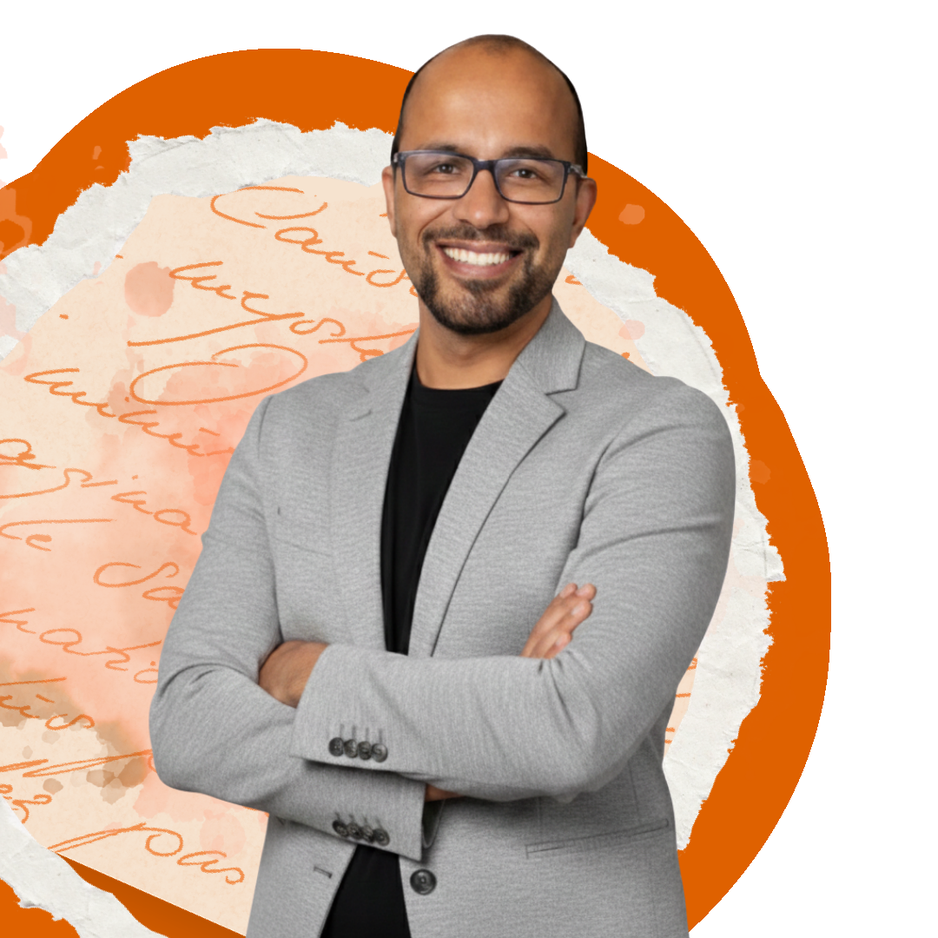
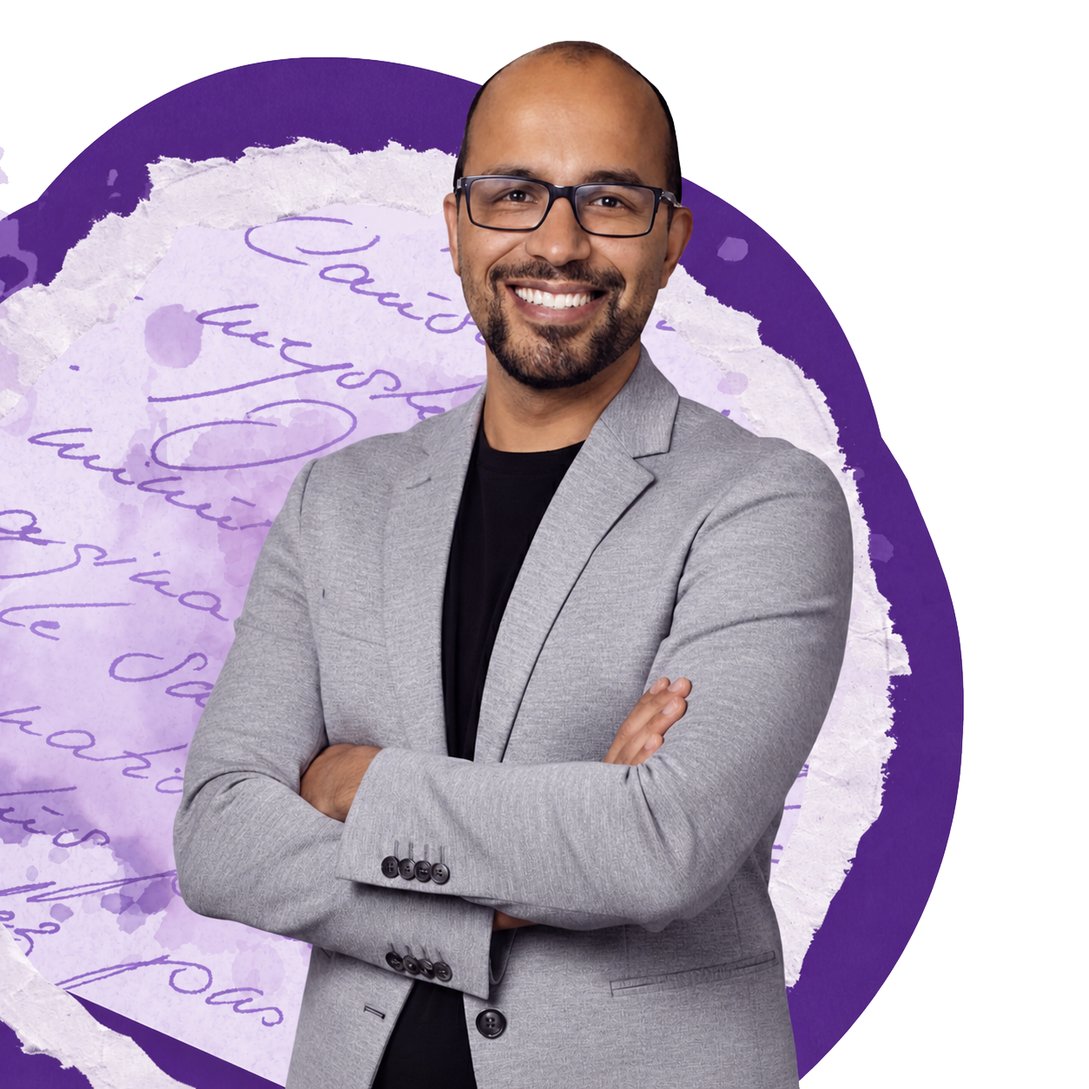
feat(pos): atualiza paginas de live e agradecimento de registro e documentacao

diff --git a/Pos/registro-e-documentacao/registro-e-documentacao-live/registro-e-documentacao-live.html b/Pos/registro-e-documentacao/registro-e-documentacao-live/registro-e-documentacao-live.html
@@ -22,27 +22,27 @@
           <div class="hero-copy">
             <p class="kicker">LIVE EDUCAÇÃO · 26/08 ÀS 19H30</p>
             <h1>Registrei. <em>E agora?</em><br>Como o registro transforma a prática pedagógica</h1>
-            <p class="hero-lead">Ressignifique o registro pedagógico para orientar escolhas, construir percursos e ampliar possibilidades de aprendizagem.</p>
+            <p class="hero-lead">Ressignifique o <strong>registro pedagógico</strong> para orientar escolhas, construir percursos e <strong>ampliar possibilidades de aprendizagem</strong>, com foco em reconhecer <strong>o cotidiano documentado como ponto de partida</strong> para a tomada de decisões.</p>
             <div class="event-meta" aria-label="Informações da live"><span><b>26/08</b><small>quarta-feira</small></span><span><b>19h30</b><small>horário de Brasília</small></span><span><b>Ao vivo</b><small>pelo YouTube</small></span><span><b>Certificado</b><small>de participação</small></span></div>
-            <a class="button button-primary" href="#inscricao">Quero participar da live <span aria-hidden="true">↓</span></a>
+            <p class="hero-support">Com o Prof. Dr. Cristiano Alcântara · Pelo YouTube · Com certificado</p><a class="button button-primary" href="#inscricao">Quero participar da live <span aria-hidden="true">↓</span></a>
           </div>
-          <div class="hero-art"><span class="hero-stamp">Registro<br>&amp; reflexão</span><img src="assets/quadrado-30.png" alt="Professor Cristiano Alcântara sorrindo, com os braços cruzados."></div>
+          <div class="hero-art"><span class="hero-stamp">Registro<br>&amp; reflexão</span><img src="assets/quadrado-30.webp" alt="Professor Cristiano Alcântara sorrindo, com os braços cruzados."></div>
         </div>
       </section>
 
       <section class="countdown-band" aria-label="Informações da live"><div class="container countdown-grid"><div><strong>26</strong><span>agosto</span></div><div><strong>19h30</strong><span>ao vivo</span></div><div><strong>100%</strong><span>gratuita</span></div><div><strong>1</strong><span>certificado</span></div></div></section>
 
-      <section class="signup section-paper" id="inscricao"><div class="container signup-grid"><div class="signup-art"><img src="assets/formulario-35.png" alt="Profissionais da educação reunidos para estudar e planejar."><p>Uma conversa para transformar observação em decisão pedagógica.</p></div><div class="form-card"><p class="kicker">Inscrição gratuita</p><h2>Garanta seu lugar na conversa.</h2><p class="form-intro">Preencha seus dados para receber as informações da live e do certificado.</p><form id="signup-form" novalidate><div class="form-field"><label for="nome">Nome completo <span aria-hidden="true">*</span></label><input id="nome" name="nome" type="text" autocomplete="name" required placeholder="Como podemos chamar você?"><small class="field-error" data-error-for="nome"></small></div><div class="form-field"><label for="email">E-mail <span aria-hidden="true">*</span></label><input id="email" name="email" type="email" autocomplete="email" required placeholder="voce@exemplo.com"><small class="field-error" data-error-for="email"></small></div><div class="form-field"><label for="telefone">Telefone <span aria-hidden="true">*</span></label><input id="telefone" name="telefone" type="tel" autocomplete="tel" required placeholder="(00) 00000-0000"><small class="field-error" data-error-for="telefone"></small></div><fieldset class="form-field"><legend>Você trabalha com educação infantil? <span aria-hidden="true">*</span></legend><label class="choice"><input type="radio" name="educacao-infantil" value="sim" required> <span>Sim</span></label><label class="choice"><input type="radio" name="educacao-infantil" value="nao"> <span>Não</span></label><small class="field-error" data-error-for="educacao-infantil"></small></fieldset><div class="form-field"><label for="objetivo">Qual é seu principal objetivo ao participar? <span aria-hidden="true">*</span></label><select id="objetivo" name="objetivo" required><option value="">Selecione uma opção</option><option>Atualizar meus conhecimentos na área</option><option>Entender mais sobre práticas, conceitos e teorias</option><option>Conhecer opções de cursos de especialização</option><option>Adquirir certificações</option></select><small class="field-error" data-error-for="objetivo"></small></div><label class="consent"><input id="consentimento" name="consentimento" type="checkbox" required><span>Eu concordo em receber comunicações. A Faculdade Phorte protege seus dados e os usa apenas para fins de marketing. Consulte a <a href="https://posphorte.com.br/politica-de-privacidade/" target="_blank" rel="noreferrer">política de privacidade</a>.</span></label><small class="field-error" data-error-for="consentimento"></small><button class="button button-submit" type="submit">Concluir minha inscrição <span aria-hidden="true">→</span></button><p class="form-status" id="form-status" role="status" aria-live="polite"></p></form></div></div></section>
+      <section class="signup section-paper" id="inscricao"><div class="container signup-grid"><div class="signup-art"><img src="assets/formulario-35.webp" alt="Profissionais da educação reunidos para estudar e planejar."><p>Uma conversa para transformar observação em decisão pedagógica.</p></div><div class="form-card"><p class="kicker">Inscrição gratuita</p><h2>Garanta seu lugar na conversa.</h2><p class="form-intro">Para participar, preencha o formulário e receba as informações da live e do certificado.</p><form id="signup-form" novalidate><div class="form-field"><label for="nome">Nome completo <span aria-hidden="true">*</span></label><input id="nome" name="nome" type="text" autocomplete="name" required placeholder="Como podemos chamar você?"><small class="field-error" data-error-for="nome"></small></div><div class="form-field"><label for="email">E-mail <span aria-hidden="true">*</span></label><input id="email" name="email" type="email" autocomplete="email" required placeholder="voce@exemplo.com"><small class="field-error" data-error-for="email"></small></div><div class="form-field"><label for="telefone">Telefone <span aria-hidden="true">*</span></label><input id="telefone" name="telefone" type="tel" autocomplete="tel" required placeholder="(00) 00000-0000"><small class="field-error" data-error-for="telefone"></small></div><fieldset class="form-field"><legend>Você trabalha com educação infantil? <span aria-hidden="true">*</span></legend><label class="choice"><input type="radio" name="educacao-infantil" value="sim" required> <span>Sim</span></label><label class="choice"><input type="radio" name="educacao-infantil" value="nao"> <span>Não</span></label><small class="field-error" data-error-for="educacao-infantil"></small></fieldset><div class="form-field"><label for="objetivo">Qual é seu principal objetivo ao participar da live? <span aria-hidden="true">*</span></label><select id="objetivo" name="objetivo" required><option value="">Selecione uma opção</option><option>Atualizar meus conhecimentos na área</option><option>Entender mais sobre práticas, conceitos e teorias da minha área de atuação</option><option>Conhecer opções de cursos de especialização</option><option>Adquirir certificações</option></select><small class="field-error" data-error-for="objetivo"></small></div><label class="consent"><input id="consentimento" name="consentimento" type="checkbox" required><span>Eu concordo em receber comunicações. A Faculdade Phorte protege seus dados e os usa apenas para fins de marketing. Consulte a <a href="https://posphorte.com.br/politica-de-privacidade/" target="_blank" rel="noreferrer">política de privacidade</a>.</span></label><small class="field-error" data-error-for="consentimento"></small><button class="button button-submit" type="submit">Conclua sua inscrição <span aria-hidden="true">→</span></button><p class="form-status" id="form-status" role="status" aria-live="polite"></p></form></div></div></section>
 
-      <section class="split-section section-white"><div class="container split-grid"><div class="split-copy"><p class="section-number">01 · Sobre a live</p><h2>O registro não termina quando a escrita acaba.</h2><p><strong>Quando o registro se torna objeto de reflexão, ele ajuda o pedagogo a orientar práticas alinhadas às necessidades reais da sala de aula.</strong></p><p>Ao revisitar suas observações, o professor identifica lacunas e caminhos de continuidade. Essa análise aproxima o planejamento do que os alunos vivem, expressam e aprendem.</p><p>Em uma transmissão ao vivo, você poderá fazer perguntas, compartilhar experiências e ampliar suas referências sobre documentação pedagógica.</p></div><figure class="shape-image"><img src="assets/quadrado-25.png" alt="Criança caminhando por uma área externa de exploração." loading="lazy"><figcaption>O cotidiano documentado é ponto de partida para novas decisões.</figcaption></figure></div></section>
+      <section class="split-section section-white"><div class="container split-grid"><div class="split-copy"><p class="section-number">01 · Sobre a live</p><h2>O registro não é o produto final da documentação pedagógica.</h2><p><strong>Quando o transforma em objeto de reflexão, o pedagogo encontra fundamentos para orientar práticas alinhadas às necessidades reais da sala de aula.</strong></p><p>Ao revisitar suas observações, <strong>o professor identifica lacunas e caminhos de continuidade</strong>. Essa análise torna o <strong>planejamento mais coerente</strong> e aproxima as decisões do que os alunos vivem, expressam e aprendem.</p><p>Entenda como seus registros podem sustentar mudanças reais na prática pedagógica em uma transmissão ao vivo com um coordenador que vivencia a documentação no cotidiano escolar. Aproveite o encontro para fazer perguntas, compartilhar experiências e ampliar suas referências.</p></div><figure class="shape-image"><img src="assets/quadrado-25.webp" alt="Criança caminhando por uma área externa de exploração." loading="lazy"><figcaption>O cotidiano documentado é ponto de partida para novas decisões.</figcaption></figure></div></section>
 
-      <section class="profile section-paper"><div class="container profile-grid"><figure class="profile-art"><img src="assets/vertical-03.png" alt="Professor Cristiano Alcântara em um retrato editorial." loading="lazy"></figure><div class="profile-copy"><p class="section-number">02 · Quem conduz</p><h2>Prof. Dr. <em>Cristiano Alcântara</em></h2><p><strong>Pós-Doutor em Psicologia da Educação, Doutor em Língua Portuguesa, Mestre em Ciência da Informação e Documentação, Bacharel em Letras e Pedagogo em Gestão Escolar.</strong></p><p>É coordenador pedagógico na Cidade de São Paulo e coordenador dos cursos de graduação em Pedagogia e das pós-graduações em Educação Infantil numa Perspectiva Pikleriana e Registro e Documentação Pedagógica da Faculdade Phorte.</p><a class="button button-outline" href="#inscricao">Inscreva-se gratuitamente <span aria-hidden="true">↗</span></a></div></div></section>
+      <section class="profile section-paper"><div class="container profile-grid"><figure class="profile-art"><img src="assets/vertical-03.webp" alt="Professor Cristiano Alcântara em um retrato editorial." loading="lazy"></figure><div class="profile-copy"><p class="section-number">02 · Quem conduz</p><h2>Prof. Dr. <em>Cristiano Alcântara</em></h2><p><strong>Pós-Doutor em Psicologia da Educação, Doutor em Língua Portuguesa, Mestre em Ciência da Informação e Documentação, Bacharel em Letras — Português e Literaturas de Língua Portuguesa e Pedagogo em Gestão Escolar.</strong></p><p>Especialista em PROEJA, Letramento e Alfabetização e Supervisão Escolar. Atualmente é Coordenador Pedagógico na Cidade de São Paulo e Coordenador dos cursos de graduação em Pedagogia e das pós-graduações em Educação Infantil numa Perspectiva Pikleriana e Registro e Documentação Pedagógica da Faculdade Phorte. Suas principais áreas de atuação são formação de professores, assessoramento pedagógico e gestão escolar.</p><a class="button button-outline" href="#inscricao">Inscreva-se gratuitamente <span aria-hidden="true">↗</span></a></div></div></section>
 
-      <section class="audience section-white"><div class="container split-grid reverse-mobile"><figure class="shape-image"><img src="assets/quadrado-24.png" alt="Crianças explorando materiais em uma sala de educação infantil." loading="lazy"><figcaption>Para quem quer dar sentido formativo ao que observa.</figcaption></figure><div class="split-copy"><p class="section-number">03 · Para quem é</p><h2>Para profissionais que documentam para transformar.</h2><p>Esta live é voltada para <strong>professores da Educação Infantil e dos anos iniciais do Ensino Fundamental</strong> que lidam com exigências institucionais e curriculares, como a BNCC e as diretrizes curriculares.</p><p>Também se dirige a <strong>coordenadores pedagógicos</strong> que buscam critérios mais claros para acompanhar práticas, orientar o trabalho docente e dar sentido formativo aos registros.</p></div></div></section>
+      <section class="audience section-white"><div class="container split-grid reverse-mobile"><figure class="shape-image"><img src="assets/quadrado-24.webp" alt="Crianças explorando materiais em uma sala de educação infantil." loading="lazy"><figcaption>Para quem quer dar sentido formativo ao que observa.</figcaption></figure><div class="split-copy"><p class="section-number">03 · Para quem é</p><h2>Para profissionais que documentam para transformar.</h2><p>Esta live é voltada para <strong>professores da Educação Infantil e dos anos iniciais do Ensino Fundamental</strong> que lidam com <strong>exigências institucionais e curriculares</strong>, como a BNCC e as diretrizes curriculares, sobre o registro e a documentação pedagógica.</p><p>Também se dirige a <strong>coordenadores pedagógicos</strong>, responsáveis pela leitura e pela devolutiva dos registros produzidos por esses professores, que buscam critérios mais claros para acompanhar práticas, orientar o trabalho docente e dar sentido formativo a esse material.</p></div></div></section>
 
       <section class="certificate section-paper"><div class="container certificate-grid"><div><p class="section-number">04 · Ao final</p><h2>Live com certificado.</h2><p>Além de dialogar ao vivo com um professor que reúne experiência em formação docente e documentação pedagógica, você garante um certificado de participação.</p><a class="button button-primary" href="#inscricao">Quero participar <span aria-hidden="true">→</span></a></div><figure class="certificate-preview"><img src="assets/CERTIFICADO_PHORTE.webp" alt="Modelo de certificado da Faculdade Phorte."></figure></div></section>
     </main>
-    <footer class="site-footer"><div class="container footer-inner"><span class="footer-brand">FACULDADE<br><b>phorte</b></span><span>Associação de Educação e Novas Tecnologias Phorte · Todos os direitos reservados.</span></div></footer>
+    <footer class="site-footer"><div class="container footer-inner"><img class="footer-logo" src="assets/logograduacao-pos-mba.svg" alt="Faculdade Phorte"><span>Associação de Educação e Novas Tecnologias Phorte · Todos os direitos reservados.</span></div></footer>
     <script src="script.js"></script>
   </body>
 </html>

diff --git a/Pos/registro-e-documentacao/registro-e-documentacao-agradecimento/registro-e-documentacao-agradecimento.html b/Pos/registro-e-documentacao/registro-e-documentacao-agradecimento/registro-e-documentacao-agradecimento.html
@@ -11,11 +11,11 @@
     <a class="skip-link" href="#conteudo">Pular para o conteúdo</a>
     <header class="site-header"><div class="container header-inner"><a class="brand" href="../index.html" aria-label="Voltar ao início"><span class="brand-live">LIVE</span><span class="brand-play" aria-hidden="true">▶</span><span class="brand-separator">|</span><span class="brand-youtube"><span class="youtube-icon" aria-hidden="true">▶</span> YouTube</span></a><a class="header-link" href="../registro-e-documentacao-live/registro-e-documentacao-live.html">Voltar para a live <span aria-hidden="true">↗</span></a></div></header>
     <main id="conteudo">
-      <section class="confirmation section-paper"><div class="container confirmation-grid"><div><p class="kicker">Live Educação · Registro e Documentação</p><h1>Parabéns!<br><em>Sua inscrição</em><br>está confirmada.</h1><p class="confirmation-lead">Em breve, você receberá novas informações no e-mail cadastrado e no grupo do WhatsApp.</p><div class="confirmed-chip"><span aria-hidden="true">✓</span> Cadastro recebido com sucesso</div></div><figure class="confirmation-art"><img src="assets/horizontal-21.png" alt="Profissional acompanhando uma transmissão online."/></figure></div></section>
-      <section class="group-section section-white"><div class="container group-grid"><figure class="phone-art"><img src="assets/celular-11.png" alt="Celular com a comunidade de Registro e Documentação Pedagógica no WhatsApp." loading="lazy"/></figure><div class="section-copy"><p class="section-number">01 · Comunidade</p><h2>Enquanto espera o dia 26 chegar, que tal entrar em um <em>grupo exclusivo</em>?</h2><p><strong>Troque experiências</strong> com outros profissionais da educação, receba conteúdos exclusivos e novidades em primeira mão.</p><p>Faça parte de uma comunidade que compartilha a sua missão: transformar a educação e o processo de aprendizagem das crianças brasileiras.</p><a class="button whatsapp-button" href="https://chat.whatsapp.com/EMSSRYy2NmP5010p0IjVTe" target="_blank" rel="noreferrer"><span class="wa-icon" aria-hidden="true">◔</span> Entrar no grupo <span aria-hidden="true">↗</span></a></div></div></section>
-      <section class="video-section section-paper"><div class="container video-grid"><div class="section-copy"><p class="section-number">02 · Conheça a Phorte</p><h2>Quer saber mais sobre a Faculdade Phorte ou sobre o professor Cristiano?</h2><p>No vídeo, o próprio professor Cristiano fala um pouco sobre sua trajetória profissional, sobre a instituição e sobre a missão conjunta de oferecer uma formação completa.</p></div><div class="video-frame"><a href="https://www.youtube.com/watch?v=ajyRdTWQGn4" target="_blank" rel="noreferrer" aria-label="Assistir ao vídeo no YouTube"><div class="video-placeholder"><span class="video-play" aria-hidden="true">▶</span><span>Assistir no YouTube</span></div></a></div></div></section>
+      <section class="confirmation section-paper"><div class="container confirmation-grid"><div><p class="kicker">Live Educação · Registro e Documentação</p><h1>Parabéns!<br><em>Sua inscrição</em><br>está confirmada.</h1><p class="confirmation-lead">Em breve, você receberá novas informações no e-mail cadastrado e no grupo do WhatsApp.</p><div class="confirmed-chip"><span aria-hidden="true">✓</span> Cadastro recebido com sucesso</div></div><figure class="confirmation-art"><img src="assets/horizontal-21.webp" alt="Profissional acompanhando uma transmissão online."/></figure></div></section>
+      <section class="group-section section-white"><div class="container group-grid"><figure class="phone-art"><img src="assets/celular-11.webp" alt="Celular com a comunidade de Registro e Documentação Pedagógica no WhatsApp." loading="lazy"/></figure><div class="section-copy"><p class="section-number">01 · Comunidade</p><h2>Enquanto espera o dia 26 chegar, que tal entrar em um <em>grupo exclusivo e dedicado</em> a Registro e Documentação Pedagógica?</h2><p><strong>Troque experiências</strong> com outros profissionais da educação, receba conteúdos exclusivos e novidades em primeira mão.</p><p>Faça parte de uma comunidade que compartilha a sua missão: transformar a educação e o processo de aprendizagem das crianças brasileiras.</p><a class="button whatsapp-button" href="https://chat.whatsapp.com/EMSSRYy2NmP5010p0IjVTe" target="_blank" rel="noreferrer"><span class="wa-icon" aria-hidden="true">◔</span> Entrar no grupo <span aria-hidden="true">↗</span></a></div></div></section>
+      <section class="video-section section-paper"><div class="container video-grid"><div class="section-copy"><p class="section-number">02 · Conheça a Phorte</p><h2>Quer saber mais sobre a Faculdade Phorte ou sobre o professor Cristiano?</h2><p>No vídeo a seguir, o próprio professor Cristiano fala um pouco sobre sua trajetória profissional, sobre a instituição e sobre a nossa missão conjunta: oferecer uma formação completa para transformar sua jornada e a jornada dos seus alunos.</p></div><div class="video-frame"><iframe src="https://www.youtube.com/embed/ajyRdTWQGn4?rel=0" title="Conheça a Faculdade Phorte e o professor Cristiano" loading="lazy" allow="accelerometer; autoplay; clipboard-write; encrypted-media; gyroscope; picture-in-picture; web-share" allowfullscreen></iframe></div></div></section>
       <section class="next-step section-white"><div class="container"><p class="section-number">03 · Próximo passo</p><h2>Até lá, observe, registre e volte a perguntar.</h2><p>A live é um convite para transformar o cotidiano documentado em ponto de partida para escolhas pedagógicas mais conscientes.</p><a class="button button-outline" href="../registro-e-documentacao-live/registro-e-documentacao-live.html">Conhecer a página da live <span aria-hidden="true">↗</span></a></div></section>
     </main>
-    <footer class="site-footer"><div class="container footer-inner"><span class="footer-brand">FACULDADE<br><b>phorte</b></span><span>Associação de Educação e Novas Tecnologias Phorte · Todos os direitos reservados.</span></div></footer>
+    <footer class="site-footer"><div class="container footer-inner"><img class="footer-logo" src="assets/logograduacao-pos-mba.svg" alt="Faculdade Phorte"><span>Associação de Educação e Novas Tecnologias Phorte · Todos os direitos reservados.</span></div></footer>
   </body>
 </html>

diff --git a/Pos/registro-e-documentacao/registro-e-documentacao-agradecimento/styles.css b/Pos/registro-e-documentacao/registro-e-documentacao-agradecimento/styles.css
@@ -1,4 +1,4 @@
-@import url('https://fonts.googleapis.com/css2?family=DM+Sans:wght@400;500;600;700&family=Manrope:wght@700;800&family=Patrick+Hand&display=swap');
+@import url('https://fonts.googleapis.com/css2?family=Poppins:wght@400;500;600;700;800&display=swap');
 :root { --purple: #a40da2; --purple-dark: #780a76; --orange: #ed6800; --ink: #28212b; --muted: #6f626f; --paper: #f8ede2; --line: #ead8ca; --white: #fffdfb; --shadow: 0 24px 80px rgba(99,54,25,.13); }
 * { box-sizing: border-box; } html { scroll-behavior: smooth; } body { margin: 0; color: var(--ink); background: var(--white); font-family: 'DM Sans', Arial, sans-serif; } img { display: block; max-width: 100%; } a { color: inherit; }
 .container { width: min(1160px, calc(100% - 40px)); margin: 0 auto; } .skip-link { position: absolute; left: 10px; top: -100px; z-index: 10; padding: 10px 14px; color: #fff; background: var(--purple); border-radius: 8px; } .skip-link:focus { top: 10px; }
@@ -10,3 +10,21 @@
 @media (max-width: 820px) { .confirmation-grid, .group-grid, .video-grid { grid-template-columns: 1fr; } .confirmation-art { max-width: 580px; margin: 0 auto; } .group-grid .phone-art { order: 0; max-width: 490px; margin: 0 auto; } .video-frame { min-height: 280px; } .video-frame a { min-height: 280px; } }
 @media (max-width: 560px) { .container { width: min(100% - 28px, 1160px); } .header-inner { min-height: 66px; } .brand-youtube, .brand-separator { display: none; } .header-link { font-size: .72rem; } .footer-inner { flex-direction: column; justify-content: center; padding: 24px 0; text-align: center; } }
 @media (prefers-reduced-motion: reduce) { html { scroll-behavior: auto; } *, *::before, *::after { transition-duration: .01ms !important; animation-duration: .01ms !important; } }
+:root { --purple: #7B3F78; --purple-dark: #5E2D5B; --orange: #D9825B; --paper: #F8F0F6; }
+.confirmed-chip { background: rgba(123,63,120,.08); border-color: rgba(123,63,120,.2); }
+.section-paper { background-image: linear-gradient(rgba(247,238,232,.86), rgba(247,238,232,.86)), url('assets/FUNDO.jpg'); background-position: center; background-size: cover; background-attachment: fixed; }
+@media (max-width: 820px) { .section-paper { background-attachment: scroll; } }
+:root { --purple: #A946FF; --purple-dark: #7B24C7; --orange: #A946FF; --orange-dark: #7B24C7; --ink: #21182C; --paper: #F7EEE8; --line: #E5D5CF; }
+body, button, input, select { font-family: 'Poppins', Arial, sans-serif; }
+h1, h2, .brand, .footer-brand { font-family: 'Poppins', Arial, sans-serif; }
+.footer-logo { display: block; width: min(180px, 42vw); height: auto; filter: brightness(0) invert(1); }
+.site-footer { border-top: 1px solid rgba(255,255,255,.22); }
+.footer-inner { min-height: 132px; padding: 18px 0; line-height: 1.45; }
+.footer-logo { flex: 0 0 auto; width: min(210px, 42vw); }
+@media (max-width: 560px) { .footer-inner { gap: 14px; padding: 24px 0 28px; } .footer-logo { width: min(190px, 62vw); } }
+.confirmation-grid > div:first-child { min-width: 0; }
+.confirmation h1 { max-width: 620px; font-size: clamp(2.35rem, 5vw, 4.65rem); line-height: .94; }
+
+.video-frame { min-height: 0; aspect-ratio: 16 / 9; border-radius: 22px; border: 1px solid rgba(33,24,44,.12); background: #21182C; box-shadow: 0 20px 45px rgba(33,24,44,.16); } .video-frame iframe { display: block; width: 100%; height: 100%; min-height: 340px; border: 0; border-radius: inherit; } @media (max-width: 820px) { .video-frame iframe { min-height: 280px; } }
+
+.button { gap: 22px; min-height: 54px; padding: 15px 26px; }

diff --git a/Pos/registro-e-documentacao/registro-e-documentacao-live/styles.css b/Pos/registro-e-documentacao/registro-e-documentacao-live/styles.css
@@ -1,4 +1,4 @@
-@import url('https://fonts.googleapis.com/css2?family=DM+Sans:wght@400;500;600;700&family=Manrope:wght@700;800&family=Patrick+Hand&display=swap');
+@import url('https://fonts.googleapis.com/css2?family=Poppins:wght@400;500;600;700;800&display=swap');
 :root { --purple: #a40da2; --purple-dark: #780a76; --orange: #ed6800; --orange-dark: #c95000; --ink: #28212b; --muted: #6f626f; --paper: #f8ede2; --line: #ead8ca; --white: #fffdfb; --shadow: 0 24px 80px rgba(99,54,25,.13); }
 * { box-sizing: border-box; } html { scroll-behavior: smooth; } body { margin: 0; color: var(--ink); background: var(--white); font-family: 'DM Sans', Arial, sans-serif; } img { display: block; max-width: 100%; } a { color: inherit; }
 .container { width: min(1160px, calc(100% - 40px)); margin: 0 auto; } .skip-link { position: absolute; left: 10px; top: -100px; z-index: 20; padding: 10px 14px; color: #fff; background: var(--purple); border-radius: 8px; } .skip-link:focus { top: 10px; }
@@ -21,3 +21,18 @@
 .hero-art::before { background: rgba(217,130,91,.18); }
 .button-primary { box-shadow: 0 10px 24px rgba(123,63,120,.24); }
 .form-field input:focus, .form-field select:focus { box-shadow: 0 0 0 3px rgba(123,63,120,.14); }
+.hero-support { margin: 18px 0 0; color: var(--purple); font-size: .82rem; font-weight: 800; }
+.footer-logo { display: block; width: min(180px, 42vw); height: auto; filter: brightness(0) invert(1); }
+.site-footer { border-top: 1px solid rgba(255,255,255,.22); }
+.footer-inner { min-height: 132px; padding: 18px 0; line-height: 1.45; }
+.footer-logo { flex: 0 0 auto; width: min(210px, 42vw); }
+@media (max-width: 560px) { .footer-inner { gap: 14px; padding: 24px 0 28px; } .footer-logo { width: min(190px, 62vw); } }
+.section-paper { background-image: linear-gradient(rgba(247,238,232,.86), rgba(247,238,232,.86)), url('assets/FUNDO.jpg'); background-position: center; background-size: cover; background-attachment: fixed; }
+@media (max-width: 820px) { .section-paper { background-attachment: scroll; } }
+:root { --purple: #A946FF; --purple-dark: #7B24C7; --orange: #A946FF; --orange-dark: #7B24C7; --ink: #21182C; --paper: #F7EEE8; --line: #E5D5CF; }
+body, button, input, select { font-family: 'Poppins', Arial, sans-serif; }
+h1, h2, .brand, .footer-brand { font-family: 'Poppins', Arial, sans-serif; }
+.hero h1, .form-card h2, .split-copy h2, .profile-copy h2, .certificate h2 { font-weight: 700; }
+.hero-stamp, .signup-art p, .shape-image figcaption { font-family: 'Poppins', Arial, sans-serif; }
+
+.button { gap: 22px; min-height: 54px; padding: 15px 26px; }
